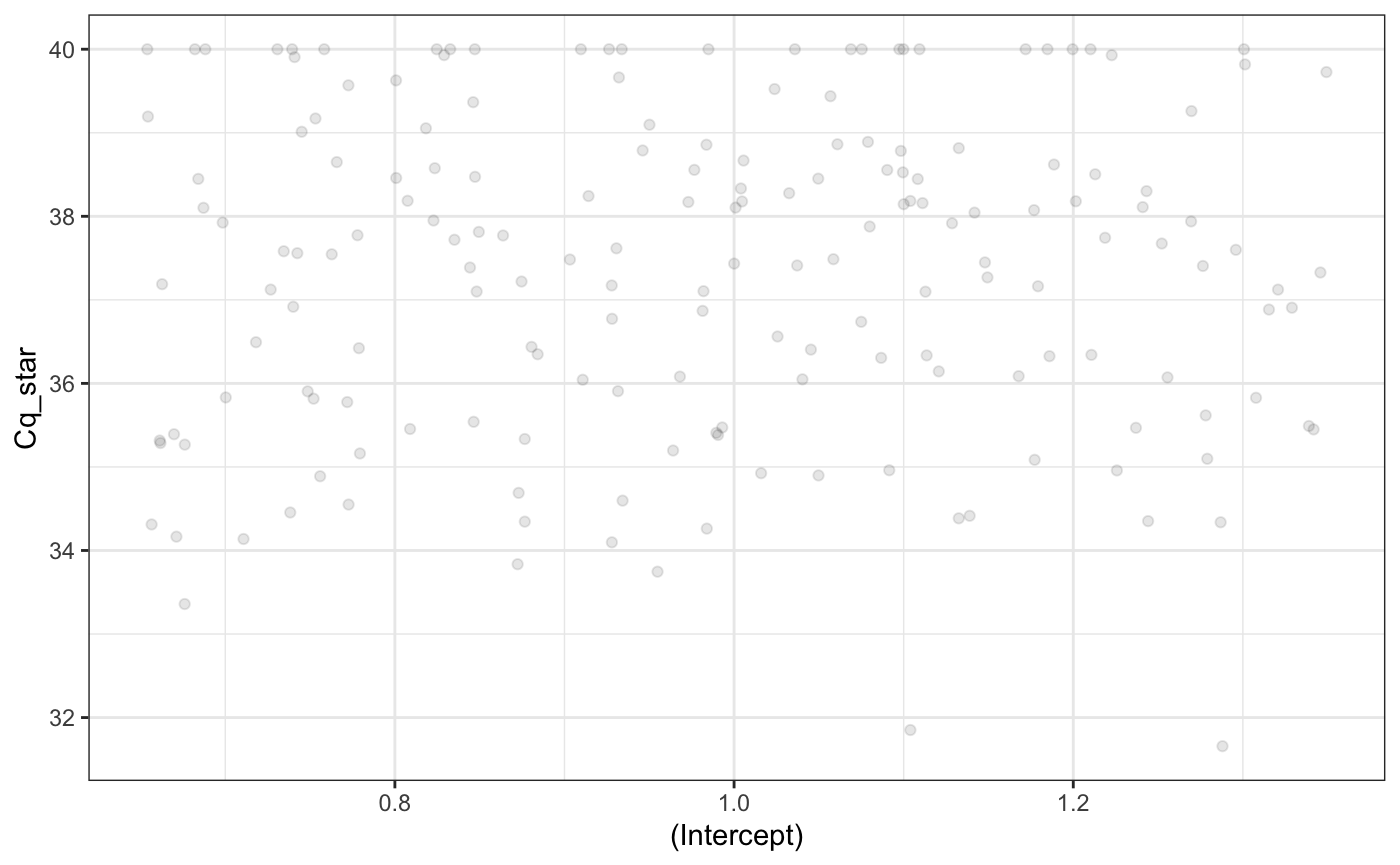
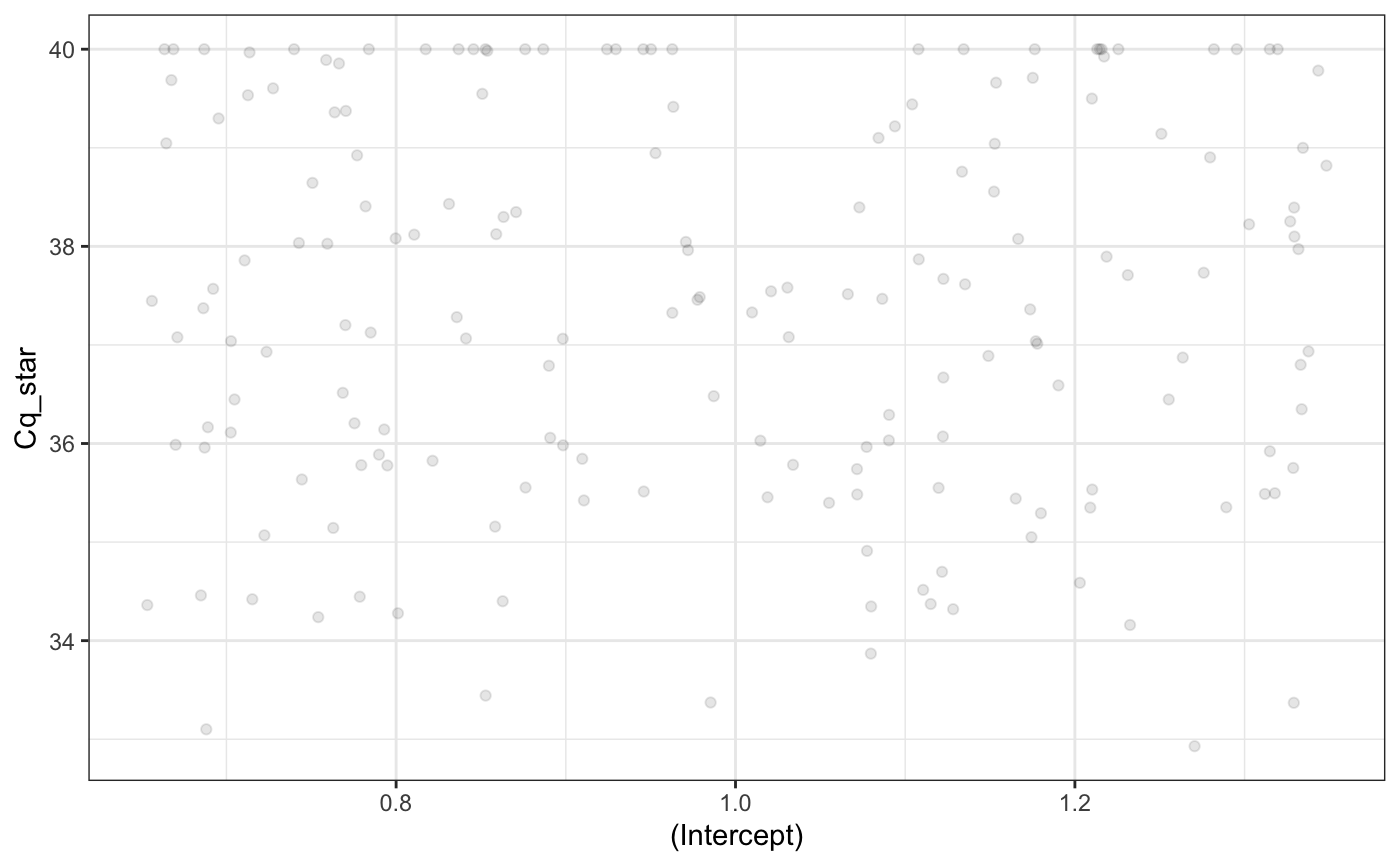
rebuild vignettes

diff --git a/docs/reference/eDNA_lmer.html b/docs/reference/eDNA_lmer.html
@@ -312,11 +312,11 @@ have issues, additional control arguments can be passed to
               <span class='kw'>std_curve_alpha</span> <span class='kw'>=</span> <span class='fl'>21.2</span>, <span class='kw'>std_curve_beta</span> <span class='kw'>=</span> -<span class='fl'>1.5</span>)</div><div class='output co'>#&gt; <span class='message'>Compiling Stan program...</span></div><div class='output co'>#&gt; Running MCMC with 4 chain(s) on 1 core(s)...
 #&gt; 
 #&gt; Running ./eDNA_omni 'id=1' random 'seed=1669462462' data \
-#&gt;   'file=/var/folders/tt/y4p3sd8x1d90ztlbsyjthmfc0000gn/T/RtmpievvJ0/standata-20503296203a.json' \
+#&gt;   'file=/var/folders/tt/y4p3sd8x1d90ztlbsyjthmfc0000gn/T/RtmpEgt9Us/standata-218cc9bfa9.json' \
 #&gt;   output \
-#&gt;   'file=/var/folders/tt/y4p3sd8x1d90ztlbsyjthmfc0000gn/T/RtmpievvJ0/eDNA_omni-202006231119-1-1dd9c8.csv' \
+#&gt;   'file=/var/folders/tt/y4p3sd8x1d90ztlbsyjthmfc0000gn/T/RtmpEgt9Us/eDNA_omni-202006231128-1-45f0a6.csv' \
 #&gt;   'method=sample' 'save_warmup=0' 'algorithm=hmc' 'engine=nuts' adapt \
-#&gt;   'engaged=1'</div><div class='output co'>#&gt; <span class='message'>Chain 1 Rejecting initial value:</span></div><div class='output co'>#&gt; <span class='message'>Chain 1   Gradient evaluated at the initial value is not finite.</span></div><div class='output co'>#&gt; <span class='message'>Chain 1   Stan can't start sampling from this initial value.</span></div><div class='output co'>#&gt; <span class='message'>Chain 1 Rejecting initial value:</span></div><div class='output co'>#&gt; <span class='message'>Chain 1   Gradient evaluated at the initial value is not finite.</span></div><div class='output co'>#&gt; <span class='message'>Chain 1   Stan can't start sampling from this initial value.</span></div><div class='output co'>#&gt; <span class='message'>Chain 1 Rejecting initial value:</span></div><div class='output co'>#&gt; <span class='message'>Chain 1   Gradient evaluated at the initial value is not finite.</span></div><div class='output co'>#&gt; <span class='message'>Chain 1   Stan can't start sampling from this initial value.</span></div><div class='output co'>#&gt; <span class='message'>Chain 1 Rejecting initial value:</span></div><div class='output co'>#&gt; <span class='message'>Chain 1   Gradient evaluated at the initial value is not finite.</span></div><div class='output co'>#&gt; <span class='message'>Chain 1   Stan can't start sampling from this initial value.</span></div><div class='output co'>#&gt; <span class='message'>Chain 1 Rejecting initial value:</span></div><div class='output co'>#&gt; <span class='message'>Chain 1   Gradient evaluated at the initial value is not finite.</span></div><div class='output co'>#&gt; <span class='message'>Chain 1   Stan can't start sampling from this initial value.</span></div><div class='output co'>#&gt; <span class='message'>Chain 1 Gradient evaluation took 0.000118 seconds</span></div><div class='output co'>#&gt; <span class='message'>Chain 1 1000 transitions using 10 leapfrog steps per transition would take 1.18 seconds.</span></div><div class='output co'>#&gt; <span class='message'>Chain 1 Adjust your expectations accordingly!</span></div><div class='output co'>#&gt; Chain 1 Iteration:    1 / 2000 [  0%]  (Warmup) </div><div class='output co'>#&gt; <span class='message'>Chain 1 Informational Message: The current Metropolis proposal is about to be rejected because of the following issue:</span></div><div class='output co'>#&gt; <span class='message'>Chain 1 Exception: normal_lpdf: Scale parameter[1] is 0, but must be &gt; 0! (in '/var/folders/tt/y4p3sd8x1d90ztlbsyjthmfc0000gn/T/RtmpievvJ0/model-20501811b54e.stan', line 231, column 1 to line 234, column 40)</span></div><div class='output co'>#&gt; <span class='message'>Chain 1 If this warning occurs sporadically, such as for highly constrained variable types like covariance matrices, then the sampler is fine,</span></div><div class='output co'>#&gt; <span class='message'>Chain 1 but if this warning occurs often then your model may be either severely ill-conditioned or misspecified.</span></div><div class='output co'>#&gt; <span class='message'>Chain 1 </span></div><div class='output co'>#&gt; Chain 1 Iteration:  100 / 2000 [  5%]  (Warmup) 
+#&gt;   'engaged=1'</div><div class='output co'>#&gt; <span class='message'>Chain 1 Rejecting initial value:</span></div><div class='output co'>#&gt; <span class='message'>Chain 1   Gradient evaluated at the initial value is not finite.</span></div><div class='output co'>#&gt; <span class='message'>Chain 1   Stan can't start sampling from this initial value.</span></div><div class='output co'>#&gt; <span class='message'>Chain 1 Rejecting initial value:</span></div><div class='output co'>#&gt; <span class='message'>Chain 1   Gradient evaluated at the initial value is not finite.</span></div><div class='output co'>#&gt; <span class='message'>Chain 1   Stan can't start sampling from this initial value.</span></div><div class='output co'>#&gt; <span class='message'>Chain 1 Rejecting initial value:</span></div><div class='output co'>#&gt; <span class='message'>Chain 1   Gradient evaluated at the initial value is not finite.</span></div><div class='output co'>#&gt; <span class='message'>Chain 1   Stan can't start sampling from this initial value.</span></div><div class='output co'>#&gt; <span class='message'>Chain 1 Rejecting initial value:</span></div><div class='output co'>#&gt; <span class='message'>Chain 1   Gradient evaluated at the initial value is not finite.</span></div><div class='output co'>#&gt; <span class='message'>Chain 1   Stan can't start sampling from this initial value.</span></div><div class='output co'>#&gt; <span class='message'>Chain 1 Rejecting initial value:</span></div><div class='output co'>#&gt; <span class='message'>Chain 1   Gradient evaluated at the initial value is not finite.</span></div><div class='output co'>#&gt; <span class='message'>Chain 1   Stan can't start sampling from this initial value.</span></div><div class='output co'>#&gt; <span class='message'>Chain 1 Gradient evaluation took 8.7e-05 seconds</span></div><div class='output co'>#&gt; <span class='message'>Chain 1 1000 transitions using 10 leapfrog steps per transition would take 0.87 seconds.</span></div><div class='output co'>#&gt; <span class='message'>Chain 1 Adjust your expectations accordingly!</span></div><div class='output co'>#&gt; Chain 1 Iteration:    1 / 2000 [  0%]  (Warmup) </div><div class='output co'>#&gt; <span class='message'>Chain 1 Informational Message: The current Metropolis proposal is about to be rejected because of the following issue:</span></div><div class='output co'>#&gt; <span class='message'>Chain 1 Exception: normal_lpdf: Scale parameter[1] is 0, but must be &gt; 0! (in '/var/folders/tt/y4p3sd8x1d90ztlbsyjthmfc0000gn/T/RtmpEgt9Us/model-218c4d1a689b.stan', line 231, column 1 to line 234, column 40)</span></div><div class='output co'>#&gt; <span class='message'>Chain 1 If this warning occurs sporadically, such as for highly constrained variable types like covariance matrices, then the sampler is fine,</span></div><div class='output co'>#&gt; <span class='message'>Chain 1 but if this warning occurs often then your model may be either severely ill-conditioned or misspecified.</span></div><div class='output co'>#&gt; <span class='message'>Chain 1 </span></div><div class='output co'>#&gt; Chain 1 Iteration:  100 / 2000 [  5%]  (Warmup) 
 #&gt; Chain 1 Iteration:  200 / 2000 [ 10%]  (Warmup) 
 #&gt; Chain 1 Iteration:  300 / 2000 [ 15%]  (Warmup) 
 #&gt; Chain 1 Iteration:  400 / 2000 [ 20%]  (Warmup) 
@@ -337,13 +337,13 @@ have issues, additional control arguments can be passed to
 #&gt; Chain 1 Iteration: 1800 / 2000 [ 90%]  (Sampling) 
 #&gt; Chain 1 Iteration: 1900 / 2000 [ 95%]  (Sampling) 
 #&gt; Chain 1 Iteration: 2000 / 2000 [100%]  (Sampling) 
-#&gt; Chain 1 finished in 11.3 seconds.
+#&gt; Chain 1 finished in 11.6 seconds.
 #&gt; Running ./eDNA_omni 'id=2' random 'seed=1245097387' data \
-#&gt;   'file=/var/folders/tt/y4p3sd8x1d90ztlbsyjthmfc0000gn/T/RtmpievvJ0/standata-20503296203a.json' \
+#&gt;   'file=/var/folders/tt/y4p3sd8x1d90ztlbsyjthmfc0000gn/T/RtmpEgt9Us/standata-218cc9bfa9.json' \
 #&gt;   output \
-#&gt;   'file=/var/folders/tt/y4p3sd8x1d90ztlbsyjthmfc0000gn/T/RtmpievvJ0/eDNA_omni-202006231119-2-1dd9c8.csv' \
+#&gt;   'file=/var/folders/tt/y4p3sd8x1d90ztlbsyjthmfc0000gn/T/RtmpEgt9Us/eDNA_omni-202006231128-2-45f0a6.csv' \
 #&gt;   'method=sample' 'save_warmup=0' 'algorithm=hmc' 'engine=nuts' adapt \
-#&gt;   'engaged=1'</div><div class='output co'>#&gt; <span class='message'>Chain 2 Rejecting initial value:</span></div><div class='output co'>#&gt; <span class='message'>Chain 2   Gradient evaluated at the initial value is not finite.</span></div><div class='output co'>#&gt; <span class='message'>Chain 2   Stan can't start sampling from this initial value.</span></div><div class='output co'>#&gt; <span class='message'>Chain 2 Rejecting initial value:</span></div><div class='output co'>#&gt; <span class='message'>Chain 2   Gradient evaluated at the initial value is not finite.</span></div><div class='output co'>#&gt; <span class='message'>Chain 2   Stan can't start sampling from this initial value.</span></div><div class='output co'>#&gt; <span class='message'>Chain 2 Gradient evaluation took 8.6e-05 seconds</span></div><div class='output co'>#&gt; <span class='message'>Chain 2 1000 transitions using 10 leapfrog steps per transition would take 0.86 seconds.</span></div><div class='output co'>#&gt; <span class='message'>Chain 2 Adjust your expectations accordingly!</span></div><div class='output co'>#&gt; Chain 2 Iteration:    1 / 2000 [  0%]  (Warmup) 
+#&gt;   'engaged=1'</div><div class='output co'>#&gt; <span class='message'>Chain 2 Rejecting initial value:</span></div><div class='output co'>#&gt; <span class='message'>Chain 2   Gradient evaluated at the initial value is not finite.</span></div><div class='output co'>#&gt; <span class='message'>Chain 2   Stan can't start sampling from this initial value.</span></div><div class='output co'>#&gt; <span class='message'>Chain 2 Rejecting initial value:</span></div><div class='output co'>#&gt; <span class='message'>Chain 2   Gradient evaluated at the initial value is not finite.</span></div><div class='output co'>#&gt; <span class='message'>Chain 2   Stan can't start sampling from this initial value.</span></div><div class='output co'>#&gt; <span class='message'>Chain 2 Gradient evaluation took 8.5e-05 seconds</span></div><div class='output co'>#&gt; <span class='message'>Chain 2 1000 transitions using 10 leapfrog steps per transition would take 0.85 seconds.</span></div><div class='output co'>#&gt; <span class='message'>Chain 2 Adjust your expectations accordingly!</span></div><div class='output co'>#&gt; Chain 2 Iteration:    1 / 2000 [  0%]  (Warmup) 
 #&gt; Chain 2 Iteration:  100 / 2000 [  5%]  (Warmup) 
 #&gt; Chain 2 Iteration:  200 / 2000 [ 10%]  (Warmup) 
 #&gt; Chain 2 Iteration:  300 / 2000 [ 15%]  (Warmup) 
@@ -365,13 +365,13 @@ have issues, additional control arguments can be passed to
 #&gt; Chain 2 Iteration: 1800 / 2000 [ 90%]  (Sampling) 
 #&gt; Chain 2 Iteration: 1900 / 2000 [ 95%]  (Sampling) 
 #&gt; Chain 2 Iteration: 2000 / 2000 [100%]  (Sampling) 
-#&gt; Chain 2 finished in 12.2 seconds.
+#&gt; Chain 2 finished in 11.6 seconds.
 #&gt; Running ./eDNA_omni 'id=3' random 'seed=1010643499' data \
-#&gt;   'file=/var/folders/tt/y4p3sd8x1d90ztlbsyjthmfc0000gn/T/RtmpievvJ0/standata-20503296203a.json' \
+#&gt;   'file=/var/folders/tt/y4p3sd8x1d90ztlbsyjthmfc0000gn/T/RtmpEgt9Us/standata-218cc9bfa9.json' \
 #&gt;   output \
-#&gt;   'file=/var/folders/tt/y4p3sd8x1d90ztlbsyjthmfc0000gn/T/RtmpievvJ0/eDNA_omni-202006231119-3-1dd9c8.csv' \
+#&gt;   'file=/var/folders/tt/y4p3sd8x1d90ztlbsyjthmfc0000gn/T/RtmpEgt9Us/eDNA_omni-202006231128-3-45f0a6.csv' \
 #&gt;   'method=sample' 'save_warmup=0' 'algorithm=hmc' 'engine=nuts' adapt \
-#&gt;   'engaged=1'</div><div class='output co'>#&gt; <span class='message'>Chain 3 Rejecting initial value:</span></div><div class='output co'>#&gt; <span class='message'>Chain 3   Gradient evaluated at the initial value is not finite.</span></div><div class='output co'>#&gt; <span class='message'>Chain 3   Stan can't start sampling from this initial value.</span></div><div class='output co'>#&gt; <span class='message'>Chain 3 Rejecting initial value:</span></div><div class='output co'>#&gt; <span class='message'>Chain 3   Gradient evaluated at the initial value is not finite.</span></div><div class='output co'>#&gt; <span class='message'>Chain 3   Stan can't start sampling from this initial value.</span></div><div class='output co'>#&gt; <span class='message'>Chain 3 Gradient evaluation took 8.6e-05 seconds</span></div><div class='output co'>#&gt; <span class='message'>Chain 3 1000 transitions using 10 leapfrog steps per transition would take 0.86 seconds.</span></div><div class='output co'>#&gt; <span class='message'>Chain 3 Adjust your expectations accordingly!</span></div><div class='output co'>#&gt; Chain 3 Iteration:    1 / 2000 [  0%]  (Warmup) 
+#&gt;   'engaged=1'</div><div class='output co'>#&gt; <span class='message'>Chain 3 Rejecting initial value:</span></div><div class='output co'>#&gt; <span class='message'>Chain 3   Gradient evaluated at the initial value is not finite.</span></div><div class='output co'>#&gt; <span class='message'>Chain 3   Stan can't start sampling from this initial value.</span></div><div class='output co'>#&gt; <span class='message'>Chain 3 Rejecting initial value:</span></div><div class='output co'>#&gt; <span class='message'>Chain 3   Gradient evaluated at the initial value is not finite.</span></div><div class='output co'>#&gt; <span class='message'>Chain 3   Stan can't start sampling from this initial value.</span></div><div class='output co'>#&gt; <span class='message'>Chain 3 Gradient evaluation took 9.2e-05 seconds</span></div><div class='output co'>#&gt; <span class='message'>Chain 3 1000 transitions using 10 leapfrog steps per transition would take 0.92 seconds.</span></div><div class='output co'>#&gt; <span class='message'>Chain 3 Adjust your expectations accordingly!</span></div><div class='output co'>#&gt; Chain 3 Iteration:    1 / 2000 [  0%]  (Warmup) 
 #&gt; Chain 3 Iteration:  100 / 2000 [  5%]  (Warmup) 
 #&gt; Chain 3 Iteration:  200 / 2000 [ 10%]  (Warmup) 
 #&gt; Chain 3 Iteration:  300 / 2000 [ 15%]  (Warmup) 
@@ -393,13 +393,13 @@ have issues, additional control arguments can be passed to
 #&gt; Chain 3 Iteration: 1800 / 2000 [ 90%]  (Sampling) 
 #&gt; Chain 3 Iteration: 1900 / 2000 [ 95%]  (Sampling) 
 #&gt; Chain 3 Iteration: 2000 / 2000 [100%]  (Sampling) 
-#&gt; Chain 3 finished in 10.1 seconds.
+#&gt; Chain 3 finished in 9.9 seconds.
 #&gt; Running ./eDNA_omni 'id=4' random 'seed=2063908309' data \
-#&gt;   'file=/var/folders/tt/y4p3sd8x1d90ztlbsyjthmfc0000gn/T/RtmpievvJ0/standata-20503296203a.json' \
+#&gt;   'file=/var/folders/tt/y4p3sd8x1d90ztlbsyjthmfc0000gn/T/RtmpEgt9Us/standata-218cc9bfa9.json' \
 #&gt;   output \
-#&gt;   'file=/var/folders/tt/y4p3sd8x1d90ztlbsyjthmfc0000gn/T/RtmpievvJ0/eDNA_omni-202006231119-4-1dd9c8.csv' \
+#&gt;   'file=/var/folders/tt/y4p3sd8x1d90ztlbsyjthmfc0000gn/T/RtmpEgt9Us/eDNA_omni-202006231128-4-45f0a6.csv' \
 #&gt;   'method=sample' 'save_warmup=0' 'algorithm=hmc' 'engine=nuts' adapt \
-#&gt;   'engaged=1'</div><div class='output co'>#&gt; <span class='message'>Chain 4 Rejecting initial value:</span></div><div class='output co'>#&gt; <span class='message'>Chain 4   Gradient evaluated at the initial value is not finite.</span></div><div class='output co'>#&gt; <span class='message'>Chain 4   Stan can't start sampling from this initial value.</span></div><div class='output co'>#&gt; <span class='message'>Chain 4 Rejecting initial value:</span></div><div class='output co'>#&gt; <span class='message'>Chain 4   Gradient evaluated at the initial value is not finite.</span></div><div class='output co'>#&gt; <span class='message'>Chain 4   Stan can't start sampling from this initial value.</span></div><div class='output co'>#&gt; <span class='message'>Chain 4 Rejecting initial value:</span></div><div class='output co'>#&gt; <span class='message'>Chain 4   Gradient evaluated at the initial value is not finite.</span></div><div class='output co'>#&gt; <span class='message'>Chain 4   Stan can't start sampling from this initial value.</span></div><div class='output co'>#&gt; <span class='message'>Chain 4 Gradient evaluation took 8.7e-05 seconds</span></div><div class='output co'>#&gt; <span class='message'>Chain 4 1000 transitions using 10 leapfrog steps per transition would take 0.87 seconds.</span></div><div class='output co'>#&gt; <span class='message'>Chain 4 Adjust your expectations accordingly!</span></div><div class='output co'>#&gt; Chain 4 Iteration:    1 / 2000 [  0%]  (Warmup) </div><div class='output co'>#&gt; <span class='message'>Chain 4 Informational Message: The current Metropolis proposal is about to be rejected because of the following issue:</span></div><div class='output co'>#&gt; <span class='message'>Chain 4 Exception: normal_lpdf: Scale parameter[1] is 0, but must be &gt; 0! (in '/var/folders/tt/y4p3sd8x1d90ztlbsyjthmfc0000gn/T/RtmpievvJ0/model-20501811b54e.stan', line 231, column 1 to line 234, column 40)</span></div><div class='output co'>#&gt; <span class='message'>Chain 4 If this warning occurs sporadically, such as for highly constrained variable types like covariance matrices, then the sampler is fine,</span></div><div class='output co'>#&gt; <span class='message'>Chain 4 but if this warning occurs often then your model may be either severely ill-conditioned or misspecified.</span></div><div class='output co'>#&gt; <span class='message'>Chain 4 </span></div><div class='output co'>#&gt; Chain 4 Iteration:  100 / 2000 [  5%]  (Warmup) 
+#&gt;   'engaged=1'</div><div class='output co'>#&gt; <span class='message'>Chain 4 Rejecting initial value:</span></div><div class='output co'>#&gt; <span class='message'>Chain 4   Gradient evaluated at the initial value is not finite.</span></div><div class='output co'>#&gt; <span class='message'>Chain 4   Stan can't start sampling from this initial value.</span></div><div class='output co'>#&gt; <span class='message'>Chain 4 Rejecting initial value:</span></div><div class='output co'>#&gt; <span class='message'>Chain 4   Gradient evaluated at the initial value is not finite.</span></div><div class='output co'>#&gt; <span class='message'>Chain 4   Stan can't start sampling from this initial value.</span></div><div class='output co'>#&gt; <span class='message'>Chain 4 Rejecting initial value:</span></div><div class='output co'>#&gt; <span class='message'>Chain 4   Gradient evaluated at the initial value is not finite.</span></div><div class='output co'>#&gt; <span class='message'>Chain 4   Stan can't start sampling from this initial value.</span></div><div class='output co'>#&gt; <span class='message'>Chain 4 Gradient evaluation took 0.000114 seconds</span></div><div class='output co'>#&gt; <span class='message'>Chain 4 1000 transitions using 10 leapfrog steps per transition would take 1.14 seconds.</span></div><div class='output co'>#&gt; <span class='message'>Chain 4 Adjust your expectations accordingly!</span></div><div class='output co'>#&gt; Chain 4 Iteration:    1 / 2000 [  0%]  (Warmup) </div><div class='output co'>#&gt; <span class='message'>Chain 4 Informational Message: The current Metropolis proposal is about to be rejected because of the following issue:</span></div><div class='output co'>#&gt; <span class='message'>Chain 4 Exception: normal_lpdf: Scale parameter[1] is 0, but must be &gt; 0! (in '/var/folders/tt/y4p3sd8x1d90ztlbsyjthmfc0000gn/T/RtmpEgt9Us/model-218c4d1a689b.stan', line 231, column 1 to line 234, column 40)</span></div><div class='output co'>#&gt; <span class='message'>Chain 4 If this warning occurs sporadically, such as for highly constrained variable types like covariance matrices, then the sampler is fine,</span></div><div class='output co'>#&gt; <span class='message'>Chain 4 but if this warning occurs often then your model may be either severely ill-conditioned or misspecified.</span></div><div class='output co'>#&gt; <span class='message'>Chain 4 </span></div><div class='output co'>#&gt; Chain 4 Iteration:  100 / 2000 [  5%]  (Warmup) 
 #&gt; Chain 4 Iteration:  200 / 2000 [ 10%]  (Warmup) 
 #&gt; Chain 4 Iteration:  300 / 2000 [ 15%]  (Warmup) 
 #&gt; Chain 4 Iteration:  400 / 2000 [ 20%]  (Warmup) 
@@ -420,11 +420,11 @@ have issues, additional control arguments can be passed to
 #&gt; Chain 4 Iteration: 1800 / 2000 [ 90%]  (Sampling) 
 #&gt; Chain 4 Iteration: 1900 / 2000 [ 95%]  (Sampling) 
 #&gt; Chain 4 Iteration: 2000 / 2000 [100%]  (Sampling) 
-#&gt; Chain 4 finished in 10.7 seconds.
+#&gt; Chain 4 finished in 10.3 seconds.
 #&gt; 
 #&gt; All 4 chains finished successfully.
-#&gt; Mean chain execution time: 11.1 seconds.
-#&gt; Total execution time: 44.4 seconds.</div><div class='input'>
+#&gt; Mean chain execution time: 10.9 seconds.
+#&gt; Total execution time: 43.5 seconds.</div><div class='input'>
 <span class='co'>## Mixed-effect model</span>
 <span class='co'>## This takes a while to run</span>
 <span class='kw'>if</span> (<span class='fl'>FALSE</span>) {

diff --git a/docs/articles/simulation.html b/docs/articles/simulation.html
@@ -138,23 +138,23 @@
                   <span class="kw">sigma_Cq</span> <span class="kw">=</span> <span class="fl">1.5</span>,
                   <span class="kw">std_curve_alpha</span> <span class="kw">=</span> <span class="fl">21.2</span>,
                   <span class="kw">std_curve_beta</span> <span class="kw">=</span> -<span class="fl">1.5</span>)
-<span class="co">#&gt; Model executable is up to date!</span>
+<span class="co">#&gt; Compiling Stan program...</span>
 <span class="co">#&gt; Running MCMC with 1 chain(s) on 1 core(s)...</span>
 <span class="co">#&gt; </span>
-<span class="co">#&gt; Running ./eDNA_sim_omni 'id=1' random 'seed=488349520' data \</span>
-<span class="co">#&gt;   'file=/var/folders/tt/y4p3sd8x1d90ztlbsyjthmfc0000gn/T/Rtmpstq3Aa/standata-21105306e802.json' \</span>
+<span class="co">#&gt; Running ./eDNA_sim_omni 'id=1' random 'seed=1229276239' data \</span>
+<span class="co">#&gt;   'file=/var/folders/tt/y4p3sd8x1d90ztlbsyjthmfc0000gn/T/RtmprgVID9/standata-22dc1ff214b0.json' \</span>
 <span class="co">#&gt;   output \</span>
-<span class="co">#&gt;   'file=/var/folders/tt/y4p3sd8x1d90ztlbsyjthmfc0000gn/T/Rtmpstq3Aa/eDNA_sim_omni-202006231122-1-6a05e3.csv' \</span>
+<span class="co">#&gt;   'file=/var/folders/tt/y4p3sd8x1d90ztlbsyjthmfc0000gn/T/RtmprgVID9/eDNA_sim_omni-202006231135-1-2c3f32.csv' \</span>
 <span class="co">#&gt;   'method=sample' 'num_samples=1' 'num_warmup=0' 'save_warmup=0' \</span>
 <span class="co">#&gt;   'algorithm=fixed_param' adapt 'engaged=1'</span>
 <span class="co">#&gt; Chain 1 Iteration: 1 / 1 [100%]  (Sampling) </span>
-<span class="co">#&gt; Chain 1 finished in 0.3 seconds.</span></pre></body></html></div>
+<span class="co">#&gt; Chain 1 finished in 0.4 seconds.</span></pre></body></html></div>
 <p>The returned object from the <code>sim_eDNA_*</code> functions is a list containing the latent variable <code>ln_conc</code>, the equivalent Cq value before truncation and measurement error <code>Cq_hat</code>, and the estimated Cq value following the truncation and measurement error <code>Cq_star</code>:</p>
 <div class="sourceCode" id="cb5"><html><body><pre class="r"><span class="fu"><a href="https://rdrr.io/r/utils/str.html">str</a></span>(<span class="no">ans</span>, <span class="kw">max.level</span> <span class="kw">=</span> <span class="fl">3</span>)
 <span class="co">#&gt; Formal class 'eDNA_simulation' [package "artemis"] with 9 slots</span>
 <span class="co">#&gt;   ..@ ln_conc        : num [1, 1:180] -10.1 -10.8 -12.6 -9.6 -10.3 ...</span>
 <span class="co">#&gt;   .. ..- attr(*, "dimnames")=List of 2</span>
-<span class="co">#&gt;   ..@ Cq_star        : num [1, 1:180] 35.4 38.5 38.8 35.8 33.8 ...</span>
+<span class="co">#&gt;   ..@ Cq_star        : num [1, 1:180] 38.1 36.5 40 37.3 36.2 ...</span>
 <span class="co">#&gt;   .. ..- attr(*, "dimnames")=List of 2</span>
 <span class="co">#&gt;   ..@ formula        :Class 'formula'  language Cq ~ distance + volume</span>
 <span class="co">#&gt;   .. .. ..- attr(*, ".Environment")=&lt;environment: R_GlobalEnv&gt; </span>
@@ -177,12 +177,12 @@
 <p>We can inspect empirical summaries of marginal distributions in the simulations with <code><a href="https://rdrr.io/r/base/summary.html">summary()</a></code>,</p>
 <div class="sourceCode" id="cb6"><html><body><pre class="r"><span class="fu"><a href="https://rdrr.io/r/base/summary.html">summary</a></span>(<span class="no">ans</span>)
 <span class="co">#&gt;      variable level  2.5%   50% 97.5%  mean p_detect</span>
-<span class="co">#&gt; 1 (Intercept)     1 33.96 37.57 40.00 37.36   0.8667</span>
-<span class="co">#&gt; 2    distance     0 33.54 35.70 38.56 35.86   1.0000</span>
-<span class="co">#&gt; 3    distance    15 34.04 37.41 39.15 37.11   0.9833</span>
-<span class="co">#&gt; 4    distance    50 36.71 39.55 40.00 39.10   0.6167</span>
-<span class="co">#&gt; 5      volume    25 34.58 37.92 40.00 37.83   0.8111</span>
-<span class="co">#&gt; 6      volume    50 33.45 37.20 40.00 36.89   0.9222</span></pre></body></html></div>
+<span class="co">#&gt; 1 (Intercept)     1 33.65 37.45 40.00 37.38   0.8500</span>
+<span class="co">#&gt; 2    distance     0 33.26 35.88 38.18 35.95   1.0000</span>
+<span class="co">#&gt; 3    distance    15 33.84 37.06 39.95 36.99   0.9667</span>
+<span class="co">#&gt; 4    distance    50 37.06 39.75 40.00 39.21   0.5833</span>
+<span class="co">#&gt; 5      volume    25 34.26 37.99 40.00 37.72   0.8111</span>
+<span class="co">#&gt; 6      volume    50 33.54 37.03 40.00 37.05   0.8889</span></pre></body></html></div>
 <p>…which summarizes the response (Cq on its natural scale) across each level of the variables used to simulate the data.</p>
 <p><strong><em>WARNING</em></strong>: <em>these marginal effects can be misleading in cases where interactions are simulated; if you have interaction effects, additional analysis is recommended.</em></p>
 <p>The last column of the table returned by <code>summary</code> is the percent of observations that represented positive detections, i.e. a Cq value below the upper cycle threshold for non-detection (set to 40 by default). In the output above, 100% of the simulated data with <code>distance</code> = 0 was below 40.0.</p>
@@ -244,10 +244,10 @@
 <span class="co">#&gt; Model executable is up to date!</span>
 <span class="co">#&gt; Running MCMC with 1 chain(s) on 1 core(s)...</span>
 <span class="co">#&gt; </span>
-<span class="co">#&gt; Running ./eDNA_sim_omni 'id=1' random 'seed=1780995284' data \</span>
-<span class="co">#&gt;   'file=/var/folders/tt/y4p3sd8x1d90ztlbsyjthmfc0000gn/T/Rtmpstq3Aa/standata-2110d2978b4.json' \</span>
+<span class="co">#&gt; Running ./eDNA_sim_omni 'id=1' random 'seed=1416331395' data \</span>
+<span class="co">#&gt;   'file=/var/folders/tt/y4p3sd8x1d90ztlbsyjthmfc0000gn/T/RtmprgVID9/standata-22dc6c0a861d.json' \</span>
 <span class="co">#&gt;   output \</span>
-<span class="co">#&gt;   'file=/var/folders/tt/y4p3sd8x1d90ztlbsyjthmfc0000gn/T/Rtmpstq3Aa/eDNA_sim_omni-202006231122-1-b3782c.csv' \</span>
+<span class="co">#&gt;   'file=/var/folders/tt/y4p3sd8x1d90ztlbsyjthmfc0000gn/T/RtmprgVID9/eDNA_sim_omni-202006231135-1-eb1155.csv' \</span>
 <span class="co">#&gt;   'method=sample' 'num_samples=1' 'num_warmup=0' 'save_warmup=0' \</span>
 <span class="co">#&gt;   'algorithm=fixed_param' adapt 'engaged=1'</span>
 <span class="co">#&gt; Chain 1 Iteration: 1 / 1 [100%]  (Sampling) </span>

diff --git a/docs/articles/modeling.html b/docs/articles/modeling.html
@@ -189,20 +189,20 @@
 <span class="co">#&gt; Running MCMC with 1 chain(s) on 1 core(s)...</span>
 <span class="co">#&gt; </span>
 <span class="co">#&gt; Running ./eDNA_omni 'id=1' random 'seed=1234' data \</span>
-<span class="co">#&gt;   'file=/var/folders/tt/y4p3sd8x1d90ztlbsyjthmfc0000gn/T/RtmpUncemx/standata-20e44d1615e3.json' \</span>
+<span class="co">#&gt;   'file=/var/folders/tt/y4p3sd8x1d90ztlbsyjthmfc0000gn/T/RtmpsqJmxP/standata-222912aefbdd.json' \</span>
 <span class="co">#&gt;   output \</span>
-<span class="co">#&gt;   'file=/var/folders/tt/y4p3sd8x1d90ztlbsyjthmfc0000gn/T/RtmpUncemx/eDNA_omni-202006231121-1-f7119e.csv' \</span>
+<span class="co">#&gt;   'file=/var/folders/tt/y4p3sd8x1d90ztlbsyjthmfc0000gn/T/RtmpsqJmxP/eDNA_omni-202006231130-1-1973c0.csv' \</span>
 <span class="co">#&gt;   'method=sample' 'save_warmup=0' 'algorithm=hmc' 'engine=nuts' adapt \</span>
 <span class="co">#&gt;   'engaged=1'</span>
 <span class="co">#&gt; Chain 1 Rejecting initial value:</span>
 <span class="co">#&gt; Chain 1   Gradient evaluated at the initial value is not finite.</span>
 <span class="co">#&gt; Chain 1   Stan can't start sampling from this initial value.</span>
-<span class="co">#&gt; Chain 1 Gradient evaluation took 9.5e-05 seconds</span>
-<span class="co">#&gt; Chain 1 1000 transitions using 10 leapfrog steps per transition would take 0.95 seconds.</span>
+<span class="co">#&gt; Chain 1 Gradient evaluation took 0.000148 seconds</span>
+<span class="co">#&gt; Chain 1 1000 transitions using 10 leapfrog steps per transition would take 1.48 seconds.</span>
 <span class="co">#&gt; Chain 1 Adjust your expectations accordingly!</span>
 <span class="co">#&gt; Chain 1 Iteration:    1 / 2000 [  0%]  (Warmup)</span>
 <span class="co">#&gt; Chain 1 Informational Message: The current Metropolis proposal is about to be rejected because of the following issue:</span>
-<span class="co">#&gt; Chain 1 Exception: normal_lpdf: Scale parameter[1] is 0, but must be &gt; 0! (in '/var/folders/tt/y4p3sd8x1d90ztlbsyjthmfc0000gn/T/RtmpievvJ0/model-20501811b54e.stan', line 231, column 1 to line 234, column 40)</span>
+<span class="co">#&gt; Chain 1 Exception: normal_lpdf: Scale parameter[1] is 0, but must be &gt; 0! (in '/var/folders/tt/y4p3sd8x1d90ztlbsyjthmfc0000gn/T/RtmpEgt9Us/model-218c4d1a689b.stan', line 231, column 1 to line 234, column 40)</span>
 <span class="co">#&gt; Chain 1 If this warning occurs sporadically, such as for highly constrained variable types like covariance matrices, then the sampler is fine,</span>
 <span class="co">#&gt; Chain 1 but if this warning occurs often then your model may be either severely ill-conditioned or misspecified.</span>
 <span class="co">#&gt; Chain 1</span>
@@ -227,7 +227,7 @@
 <span class="co">#&gt; Chain 1 Iteration: 1800 / 2000 [ 90%]  (Sampling) </span>
 <span class="co">#&gt; Chain 1 Iteration: 1900 / 2000 [ 95%]  (Sampling) </span>
 <span class="co">#&gt; Chain 1 Iteration: 2000 / 2000 [100%]  (Sampling) </span>
-<span class="co">#&gt; Chain 1 finished in 41.0 seconds.</span>
+<span class="co">#&gt; Chain 1 finished in 46.8 seconds.</span>
 <span class="co">#&gt; 309 of 1000 (31.0%) transitions ended with a divergence.</span>
 <span class="co">#&gt; These divergent transitions indicate that HMC is not fully able to explore the posterior distribution.</span>
 <span class="co">#&gt; Try increasing adapt delta closer to 1.</span>
@@ -253,9 +253,9 @@
 <span class="co">#&gt; Running MCMC with 1 chain(s) on 1 core(s)...</span>
 <span class="co">#&gt; </span>
 <span class="co">#&gt; Running ./eDNA_omni 'id=1' random 'seed=1234' data \</span>
-<span class="co">#&gt;   'file=/var/folders/tt/y4p3sd8x1d90ztlbsyjthmfc0000gn/T/RtmpUncemx/standata-20e42df13f81.json' \</span>
+<span class="co">#&gt;   'file=/var/folders/tt/y4p3sd8x1d90ztlbsyjthmfc0000gn/T/RtmpsqJmxP/standata-222960a506a1.json' \</span>
 <span class="co">#&gt;   output \</span>
-<span class="co">#&gt;   'file=/var/folders/tt/y4p3sd8x1d90ztlbsyjthmfc0000gn/T/RtmpUncemx/eDNA_omni-202006231122-1-8045b7.csv' \</span>
+<span class="co">#&gt;   'file=/var/folders/tt/y4p3sd8x1d90ztlbsyjthmfc0000gn/T/RtmpsqJmxP/eDNA_omni-202006231131-1-566598.csv' \</span>
 <span class="co">#&gt;   'method=sample' 'save_warmup=0' 'algorithm=hmc' 'engine=nuts' adapt \</span>
 <span class="co">#&gt;   'engaged=1'</span>
 <span class="co">#&gt; Chain 1 Rejecting initial value:</span>
@@ -285,8 +285,8 @@
 <span class="co">#&gt; Chain 1 Rejecting initial value:</span>
 <span class="co">#&gt; Chain 1   Gradient evaluated at the initial value is not finite.</span>
 <span class="co">#&gt; Chain 1   Stan can't start sampling from this initial value.</span>
-<span class="co">#&gt; Chain 1 Gradient evaluation took 0.000123 seconds</span>
-<span class="co">#&gt; Chain 1 1000 transitions using 10 leapfrog steps per transition would take 1.23 seconds.</span>
+<span class="co">#&gt; Chain 1 Gradient evaluation took 0.000122 seconds</span>
+<span class="co">#&gt; Chain 1 1000 transitions using 10 leapfrog steps per transition would take 1.22 seconds.</span>
 <span class="co">#&gt; Chain 1 Adjust your expectations accordingly!</span>
 <span class="co">#&gt; Chain 1 Iteration:    1 / 2000 [  0%]  (Warmup) </span>
 <span class="co">#&gt; Chain 1 Iteration:  100 / 2000 [  5%]  (Warmup) </span>
@@ -310,7 +310,7 @@
 <span class="co">#&gt; Chain 1 Iteration: 1800 / 2000 [ 90%]  (Sampling) </span>
 <span class="co">#&gt; Chain 1 Iteration: 1900 / 2000 [ 95%]  (Sampling) </span>
 <span class="co">#&gt; Chain 1 Iteration: 2000 / 2000 [100%]  (Sampling) </span>
-<span class="co">#&gt; Chain 1 finished in 18.4 seconds.</span></pre></body></html></div>
+<span class="co">#&gt; Chain 1 finished in 16.8 seconds.</span></pre></body></html></div>
 </div>
 <div id="summarizing-and-plotting-model-output" class="section level1">
 <h1 class="hasAnchor">

diff --git a/docs/articles/artemis-overview.html b/docs/articles/artemis-overview.html
@@ -213,24 +213,24 @@ log[eDNA]_{i} = X_{i} \beta\]</span></p>
                     <span class="kw">iter</span> <span class="kw">=</span> <span class="fl">500</span>,
                     <span class="kw">seed</span> <span class="kw">=</span> <span class="fl">1234</span>,
                     <span class="kw">n_chain</span> <span class="kw">=</span> <span class="fl">1</span>) <span class="co"># set to 1 for vignette; default is 4</span>
-<span class="co">#&gt; Model executable is up to date!</span>
+<span class="co">#&gt; Compiling Stan program...</span>
 <span class="co">#&gt; Running MCMC with 1 chain(s) on 1 core(s)...</span>
 <span class="co">#&gt; </span>
 <span class="co">#&gt; Running ./eDNA_omni 'id=1' random 'seed=1234' data \</span>
-<span class="co">#&gt;   'file=/var/folders/tt/y4p3sd8x1d90ztlbsyjthmfc0000gn/T/RtmpBvz3Vz/standata-20c926dfc095.json' \</span>
+<span class="co">#&gt;   'file=/var/folders/tt/y4p3sd8x1d90ztlbsyjthmfc0000gn/T/RtmpXaseBQ/standata-229e5e6eef9b.json' \</span>
 <span class="co">#&gt;   output \</span>
-<span class="co">#&gt;   'file=/var/folders/tt/y4p3sd8x1d90ztlbsyjthmfc0000gn/T/RtmpBvz3Vz/eDNA_omni-202006231120-1-dc8a23.csv' \</span>
+<span class="co">#&gt;   'file=/var/folders/tt/y4p3sd8x1d90ztlbsyjthmfc0000gn/T/RtmpXaseBQ/eDNA_omni-202006231134-1-34d98c.csv' \</span>
 <span class="co">#&gt;   'method=sample' 'save_warmup=0' 'algorithm=hmc' 'engine=nuts' adapt \</span>
 <span class="co">#&gt;   'engaged=1'</span>
 <span class="co">#&gt; Chain 1 Rejecting initial value:</span>
 <span class="co">#&gt; Chain 1   Gradient evaluated at the initial value is not finite.</span>
 <span class="co">#&gt; Chain 1   Stan can't start sampling from this initial value.</span>
-<span class="co">#&gt; Chain 1 Gradient evaluation took 0.000137 seconds</span>
-<span class="co">#&gt; Chain 1 1000 transitions using 10 leapfrog steps per transition would take 1.37 seconds.</span>
+<span class="co">#&gt; Chain 1 Gradient evaluation took 0.000101 seconds</span>
+<span class="co">#&gt; Chain 1 1000 transitions using 10 leapfrog steps per transition would take 1.01 seconds.</span>
 <span class="co">#&gt; Chain 1 Adjust your expectations accordingly!</span>
 <span class="co">#&gt; Chain 1 Iteration:    1 / 2000 [  0%]  (Warmup)</span>
 <span class="co">#&gt; Chain 1 Informational Message: The current Metropolis proposal is about to be rejected because of the following issue:</span>
-<span class="co">#&gt; Chain 1 Exception: normal_lpdf: Scale parameter[1] is 0, but must be &gt; 0! (in '/var/folders/tt/y4p3sd8x1d90ztlbsyjthmfc0000gn/T/RtmpievvJ0/model-20501811b54e.stan', line 231, column 1 to line 234, column 40)</span>
+<span class="co">#&gt; Chain 1 Exception: normal_lpdf: Scale parameter[1] is 0, but must be &gt; 0! (in '/var/folders/tt/y4p3sd8x1d90ztlbsyjthmfc0000gn/T/RtmpXaseBQ/model-229e29aa197b.stan', line 231, column 1 to line 234, column 40)</span>
 <span class="co">#&gt; Chain 1 If this warning occurs sporadically, such as for highly constrained variable types like covariance matrices, then the sampler is fine,</span>
 <span class="co">#&gt; Chain 1 but if this warning occurs often then your model may be either severely ill-conditioned or misspecified.</span>
 <span class="co">#&gt; Chain 1</span>
@@ -255,7 +255,7 @@ log[eDNA]_{i} = X_{i} \beta\]</span></p>
 <span class="co">#&gt; Chain 1 Iteration: 1800 / 2000 [ 90%]  (Sampling) </span>
 <span class="co">#&gt; Chain 1 Iteration: 1900 / 2000 [ 95%]  (Sampling) </span>
 <span class="co">#&gt; Chain 1 Iteration: 2000 / 2000 [100%]  (Sampling) </span>
-<span class="co">#&gt; Chain 1 finished in 44.5 seconds.</span>
+<span class="co">#&gt; Chain 1 finished in 38.8 seconds.</span>
 <span class="co">#&gt; 309 of 1000 (31.0%) transitions ended with a divergence.</span>
 <span class="co">#&gt; These divergent transitions indicate that HMC is not fully able to explore the posterior distribution.</span>
 <span class="co">#&gt; Try increasing adapt delta closer to 1.</span>

diff --git a/docs/reference/sim_eDNA_lmer.html b/docs/reference/sim_eDNA_lmer.html
@@ -308,16 +308,16 @@ log[eDNA concentration] as the comparison data.</p></li>
                       <span class='kw'>std_curve_alpha</span> <span class='kw'>=</span> <span class='fl'>21.2</span>, <span class='kw'>std_curve_beta</span> <span class='kw'>=</span> -<span class='fl'>1.5</span>)</div><div class='output co'>#&gt; <span class='message'>Compiling Stan program...</span></div><div class='output co'>#&gt; Running MCMC with 1 chain(s) on 1 core(s)...
 #&gt; 
 #&gt; Running ./eDNA_sim_omni 'id=1' random 'seed=958925184' data \
-#&gt;   'file=/var/folders/tt/y4p3sd8x1d90ztlbsyjthmfc0000gn/T/RtmpievvJ0/standata-20502e977847.json' \
+#&gt;   'file=/var/folders/tt/y4p3sd8x1d90ztlbsyjthmfc0000gn/T/RtmpEgt9Us/standata-218c1a307380.json' \
 #&gt;   output \
-#&gt;   'file=/var/folders/tt/y4p3sd8x1d90ztlbsyjthmfc0000gn/T/RtmpievvJ0/eDNA_sim_omni-202006231120-1-599536.csv' \
+#&gt;   'file=/var/folders/tt/y4p3sd8x1d90ztlbsyjthmfc0000gn/T/RtmpEgt9Us/eDNA_sim_omni-202006231129-1-eee5ee.csv' \
 #&gt;   'method=sample' 'num_samples=1' 'num_warmup=0' 'save_warmup=0' \
 #&gt;   'algorithm=fixed_param' adapt 'engaged=1'
 #&gt; Chain 1 Iteration: 1 / 1 [100%]  (Sampling) 
 #&gt; Chain 1 finished in 0.2 seconds.</div><div class='input'>
 <span class='fu'><a href='https://rdrr.io/r/base/print.html'>print</a></span>(<span class='no'>ans</span>)</div><div class='output co'>#&gt; 
 #&gt; formula: Cq ~ 1
-#&gt; &lt;environment: 0x7fd3a89b8350&gt;
+#&gt; &lt;environment: 0x7fc9d8f118c0&gt;
 #&gt; 
 #&gt; Standard curve parameters: Cq = alpha + beta * log(concentration)
 #&gt; 	Standard curve alpha =  21.2 
@@ -335,9 +335,9 @@ log[eDNA concentration] as the comparison data.</p></li>
                   <span class='kw'>sigma_Cq</span> <span class='kw'>=</span> <span class='fl'>1</span>, <span class='kw'>std_curve_alpha</span> <span class='kw'>=</span> <span class='fl'>21.2</span>, <span class='kw'>std_curve_beta</span> <span class='kw'>=</span> -<span class='fl'>1.5</span>)</div><div class='output co'>#&gt; <span class='message'>Model executable is up to date!</span></div><div class='output co'>#&gt; Running MCMC with 1 chain(s) on 1 core(s)...
 #&gt; 
 #&gt; Running ./eDNA_sim_omni 'id=1' random 'seed=840353518' data \
-#&gt;   'file=/var/folders/tt/y4p3sd8x1d90ztlbsyjthmfc0000gn/T/RtmpievvJ0/standata-20502f533a91.json' \
+#&gt;   'file=/var/folders/tt/y4p3sd8x1d90ztlbsyjthmfc0000gn/T/RtmpEgt9Us/standata-218c32399f00.json' \
 #&gt;   output \
-#&gt;   'file=/var/folders/tt/y4p3sd8x1d90ztlbsyjthmfc0000gn/T/RtmpievvJ0/eDNA_sim_omni-202006231120-1-2a1ddd.csv' \
+#&gt;   'file=/var/folders/tt/y4p3sd8x1d90ztlbsyjthmfc0000gn/T/RtmpEgt9Us/eDNA_sim_omni-202006231129-1-f5d2c2.csv' \
 #&gt;   'method=sample' 'num_samples=1' 'num_warmup=0' 'save_warmup=0' \
 #&gt;   'algorithm=fixed_param' adapt 'engaged=1'
 #&gt; Chain 1 Iteration: 1 / 1 [100%]  (Sampling) 
